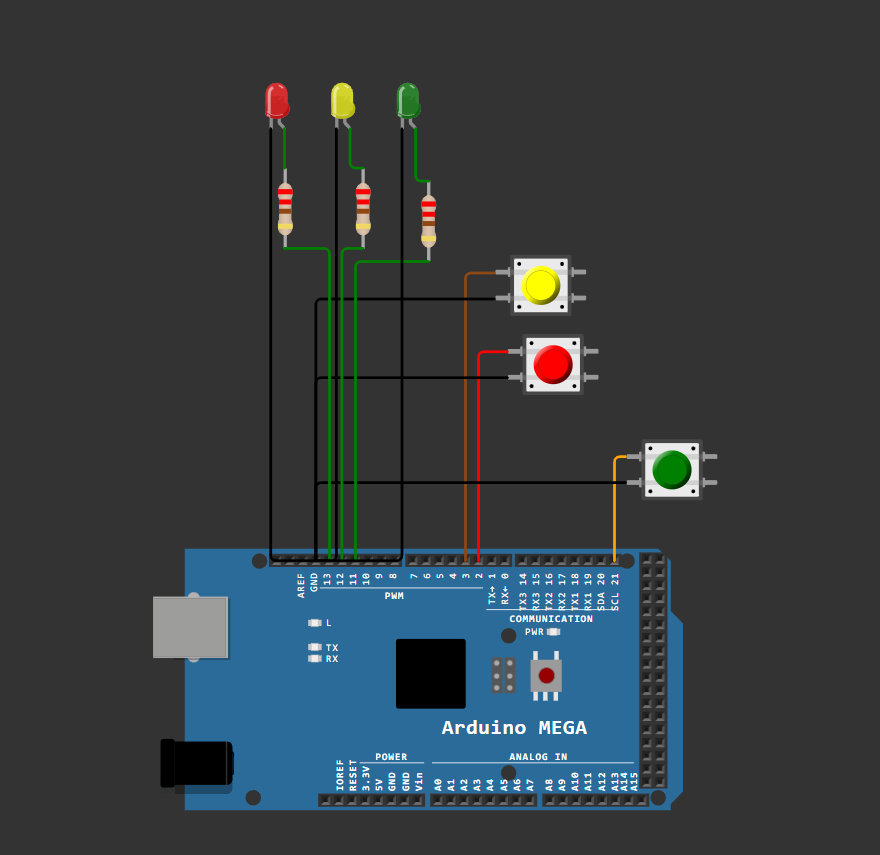
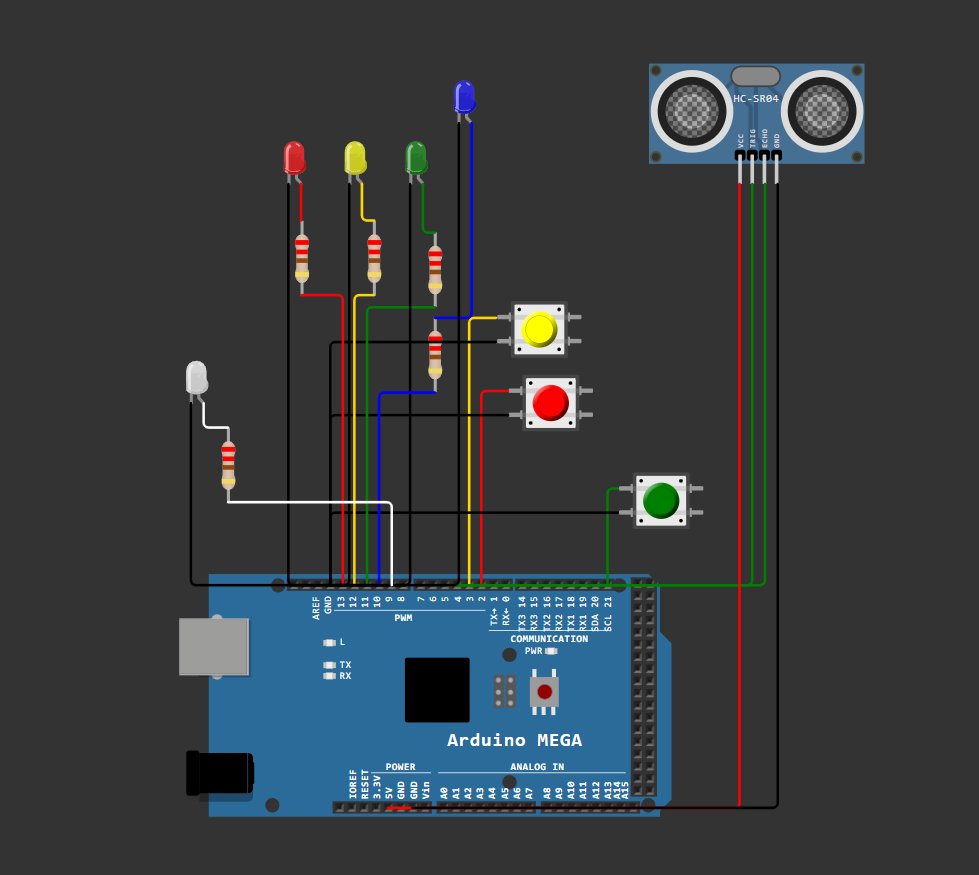
Updated Zadatak_1_Hojski

Changed region(s): [[0.1534, 0.0608, 0.8898, 0.9731]]

diff --git a/Zad_1_Hojski/Prekidi.c b/Zad_1_Hojski/Prekidi.c
@@ -1,81 +1,186 @@
 #include <avr/interrupt.h>
 
-#define LED_INT0 13 // Crvena (najviši prioritet)
-#define LED_INT1 12 // Žuta
-#define LED_INT2 11 // Zelena
-#define BUTTON0 2   // INT0
-#define BUTTON1 3   // INT1
-#define BUTTON2 21  // INT2
+// LED pinovi
+#define LED_INT0 13   // Crvena (tipka INT0)
+#define LED_INT1 12   // Žuta (tipka INT1)
+#define LED_INT2 11   // Zelena (tipka INT2)
+#define LED_Sensor 10 // Plava (senzor)
+#define LED_Timer 9   // Bijela (timer - najviši prioritet)
 
+// Tipkala
+#define BUTTON0 2  // INT0
+#define BUTTON1 3  // INT1
+#define BUTTON2 21 // INT2
+
+// HC-SR04 senzor
+#define TRIG_PIN 4
+#define ECHO_PIN 5 // INT3
+
+// Timer1 konstante
+#define TIMER1_PRESCALER 1024
+#define TIMER1_COMPARE 15624
+
+// Globalne varijable
 volatile bool int0Flag = false;
 volatile bool int1Flag = false;
 volatile bool int2Flag = false;
-unsigned long lastDebounceTime = 0;
-bool processingInterrupt = false;
+volatile bool distanceAlert = false;
+volatile bool timerFlag = false; // Zastavica za timer interrupt
+volatile unsigned long lastDebounceTime = 0;
+const int ALARM_DISTANCE = 100; // Prag udaljenosti u cm
 
 void setup()
 {
+  // Inicijalizacija LEDica
   pinMode(LED_INT0, OUTPUT);
   pinMode(LED_INT1, OUTPUT);
   pinMode(LED_INT2, OUTPUT);
+  pinMode(LED_Sensor, OUTPUT);
+  pinMode(LED_Timer, OUTPUT);
+
+  // Inicijalizacija tipkala
   pinMode(BUTTON0, INPUT_PULLUP);
   pinMode(BUTTON1, INPUT_PULLUP);
   pinMode(BUTTON2, INPUT_PULLUP);
 
+  // Inicijalizacija HC-SR04
+  pinMode(TRIG_PIN, OUTPUT);
+  pinMode(ECHO_PIN, INPUT);
+
+  // Postavljanje prekida za tipkala
   attachInterrupt(digitalPinToInterrupt(BUTTON0), ISR_INT0, FALLING);
   attachInterrupt(digitalPinToInterrupt(BUTTON1), ISR_INT1, FALLING);
   attachInterrupt(digitalPinToInterrupt(BUTTON2), ISR_INT2, FALLING);
 
+  // Konfiguracija Timer1 za prekid svake sekunde
+  TCCR1A = 0;                                        // Normal mode
+  TCCR1B = (1 << WGM12) | (1 << CS12) | (1 << CS10); // CTC mode, prescaler 1024
+  OCR1A = TIMER1_COMPARE;
+  TIMSK1 = (1 << OCIE1A); // Omogući Timer1 compare interrupt
+
   Serial.begin(9600);
-  sei();
+  sei(); // Omogući globalne prekide
 }
 
 void loop()
 {
-  if (!processingInterrupt)
+  // Mjerenje udaljenosti
+  float distance = measureDistance();
+
+  // Provjera alarmnog praga
+  if (distance > 0 && distance < ALARM_DISTANCE)
   {
-    if (int0Flag)
+    if (!distanceAlert)
     {
-      handleInterrupt(0);
+      distanceAlert = true;
     }
-    else if (int1Flag)
-    {
-      handleInterrupt(1);
-    }
-    else if (int2Flag)
-    {
-      handleInterrupt(2);
-    }
+  }
+  else
+  {
+    distanceAlert = false;
+  }
+
+  // Obrada prekida po prioritetima
+  if (timerFlag)
+  {
+    handleTimerInterrupt();
+  }
+  else if (int0Flag)
+  {
+    handleInterrupt(0);
+  }
+  else if (int1Flag)
+  {
+    handleInterrupt(1);
+  }
+  else if (int2Flag)
+  {
+    handleInterrupt(2);
+  }
+  else if (distanceAlert)
+  {
+    triggerDistanceAlert();
   }
 }
 
-// ISR funkcije
+// Timer1 compare interrupt rutina
+ISR(TIMER1_COMPA_vect)
+{
+  timerFlag = true;
+}
+
+void handleTimerInterrupt()
+{
+  // Ugasi sve LEDice
+  digitalWrite(LED_INT0, LOW);
+  digitalWrite(LED_INT1, LOW);
+  digitalWrite(LED_INT2, LOW);
+  digitalWrite(LED_Sensor, LOW);
+
+  // Upali LED_Timer i ispiši poruku
+  digitalWrite(LED_Timer, HIGH);
+  Serial.println("TIMER INTERRUPT (HIGHEST PRIORITY)");
+  delay(1000);
+  digitalWrite(LED_Timer, LOW);
+
+  timerFlag = false;
+}
+
+float measureDistance()
+{
+  // Generiraj trigger impuls
+  digitalWrite(TRIG_PIN, LOW);
+  delayMicroseconds(2);
+  digitalWrite(TRIG_PIN, HIGH);
+  delayMicroseconds(10);
+  digitalWrite(TRIG_PIN, LOW);
+
+  // Mjeri Echo puls
+  long duration = pulseIn(ECHO_PIN, HIGH, 30000); // Timeout 30ms
+
+  // Izračunaj udaljenost
+  if (duration > 0)
+  {
+    return duration / 58.0;
+  }
+  return -1; // Nevažeće mjerenje
+}
+
+void triggerDistanceAlert()
+{
+  // Bljeskaj plavom ledicom
+  digitalWrite(LED_Sensor, HIGH);
+  delay(200);
+  digitalWrite(LED_Sensor, LOW);
+  delay(200);
+  Serial.println("ALARM: Predmet preblizu (<100cm, LOWEST PRIORITY)!");
+}
+
+// Prekidne rutine za tipkala
 void ISR_INT0()
 {
-  if (millis() - lastDebounceTime > 20)
+  if (millis() - lastDebounceTime > 10)
     int0Flag = true;
   lastDebounceTime = millis();
 }
 
 void ISR_INT1()
 {
-  if (millis() - lastDebounceTime > 20)
+  if (millis() - lastDebounceTime > 10)
     int1Flag = true;
   lastDebounceTime = millis();
 }
 
 void ISR_INT2()
 {
-  if (millis() - lastDebounceTime > 20)
+  if (millis() - lastDebounceTime > 10)
     int2Flag = true;
   lastDebounceTime = millis();
 }
 
 void handleInterrupt(int interruptNum)
 {
-  processingInterrupt = true;
-
-  // Ugasi sve LED-ice
+  // Ugasi sve LEDice
   digitalWrite(LED_INT0, LOW);
   digitalWrite(LED_INT1, LOW);
   digitalWrite(LED_INT2, LOW);
@@ -85,21 +190,24 @@ void handleInterrupt(int interruptNum)
   {
   case 0:
     digitalWrite(LED_INT0, HIGH);
-    Serial.println("INT0 (HIGHEST priority)");
+    Serial.println("INT0 (HIGH priority)");
     int0Flag = false;
+    delay(500);
+    digitalWrite(LED_INT0, LOW);
     break;
   case 1:
     digitalWrite(LED_INT1, HIGH);
     Serial.println("INT1 (Medium priority)");
     int1Flag = false;
+    delay(500);
+    digitalWrite(LED_INT1, LOW);
     break;
   case 2:
     digitalWrite(LED_INT2, HIGH);
-    Serial.println("INT2 (Low priority)");
+    Serial.println("INT2 (LOW priority)");
     int2Flag = false;
+    delay(500);
+    digitalWrite(LED_INT2, LOW);
     break;
   }
-
-  delay(100); // Pauza da se LEDica vidljivo upali
-  processingInterrupt = false;
 }

diff --git a/Zad_1_Hojski/readme.md b/Zad_1_Hojski/readme.md
@@ -7,26 +7,27 @@
 
 ## 📖 Sadržaj
 
-1. [Opis projekta](#opis-projekta)
+1. [Opis zadatka](#opis-projekta)
 2. [Hardverske komponente](#hardverske-komponente)
 3. [Slika spojeva](#slika-spojeva)
-4. [Testiranje](#testiranje)
-5. [Rezultat](#rezultat)
-6. [Moguća poboljšanja](#moguca-poboljsanja)
+4. [Opis rješenja](#opis-rjesenja)
+5. [Zaključak](#zakljucak)
 
-## <a name="opis-projekta"></a>1. Opis projekta
+## <a name="opis-projekta"></a>1. Opis zadatka
 
 Sustav demonstrira obradu višestrukih prekida s različitim prioritetima koristeći:
 
 - 3 tipkala za generiranje prekida (INT0, INT1, INT2)
 - 3 LED-ice (crvena, žuta, zelena) za vizualizaciju prioriteta
+- HC-SR04 kao senzor za udaljenost
+- Timer koji sam stvara prekide
 - Arduino Mega 2560 mikrokontroler
 
 **Ključna svojstva**:
 
-- Softversko upravljanje prioritetima
-- Debounce za pouzdano detektiranje tipkala
-- Serijski izlaz za debug informacije
+- Svaki prekid se zasebno obrađuje
+- Ako se javi prekid višeg stupnja, drugi prekidi se stavljaju na čekanje
+- Nakon što se izvrši prekid više razine počnu se redom izvršavati ostali prekidi (od najviše razine prema najnižoj)
 
 ## <a name="hardverske-komponente"></a>2. Hardverske komponente
 
@@ -37,59 +38,65 @@ Sustav demonstrira obradu višestrukih prekida s različitim prioritetima korist
 | Crvena LED        | 1        | 13                  |
 | Žuta LED          | 1        | 12                  |
 | Zelena LED        | 1        | 11                  |
+| Plava LED         | 1        | 10                  |
+| Bijela LED        | 1        | 9                   |
+| HC-SR04           | 1        | TRIG: 4, ECHO: 5    |
 | Otpornik 220Ω     | 3        | -                   |
 
 ## <a name="slika-spojeva"></a> 3. Slika spojeva
 
 ![Wiring Diagram](Prekidi.png)
 
-## 4. <a name="testiranje"></a>Testiranje
+## 4. <a name="opis-rjesenja"></a>Opis rješenja
 
-## 📌 Test Slučaj 1: Prioritetna obrada prekida
+Bijela LED lampica signalizira prekid generiran pomoću timera svakih 2 sekunde. Ovaj prekid ima najviši prioritet i uvijek se izvršava prije svih ostalih.
+Crvena, žuta i zelena LED lampica aktiviraju se kao odgovor na prekide generirane pritiskom na odgovarajuće tipkalo. Prekidi imaju definirani prioritet gdje crvena lampica ima najviši, zatim žuta, a zatim zelena.
+Senzor udaljenosti HC-SR04 se koristi za detektiranje predmeta. Kada senzor registrira objekt bliže od 100 cm, generira se prekid najnižeg prioriteta koji pali plavu lampicu.
 
-**Cilj**:
-Demonstrirati kako sustav prvo obrađuje prekid s najvišim prioritetom kada se aktiviraju višestruki prekidi istovremeno.
+Svaki prekid bi trebao upaliti odgovarajuću LED lampicu kako bi korisnik mogao vidjeti da se prekid ispravno obrađuje.
 
-**Koraci testiranja**:
+- Timer prekid (bijela lampica) treba se aktivirati automatski svakih 2 sekunde.
 
-1. Pritisnite sva tri tipkala (INT0, INT1, INT2) istovremeno
-2. Promatrajte redoslijed paljenja LED dioda
+- Pritiskom na tipkala INT0, INT1 i INT2 trebale bi se redom paliti crvena, žuta i zelena lampica.
 
-**Očekivano ponašanje**:
+- Kada je objekt bliže od 100 cm senzoru, plava lampica se pali kako bi signalizirala da je detekcija aktivirana.
 
-1. Crvena LED (INT0) upali se prva (najviši prioritet)
-2. Žuta LED (INT1) upali se nakon 1 sekunde
-3. Zelena LED (INT2) upali se nakon dodatne 1 sekunde
+### 4.1. Prekidi izazvani kada se pritisnu sva tipkala istovremeno
 
-**Tehnički detalji**:
+Ako korisnik istovremeno pritisne sva tri tipkala, prekidi se trebaju obrađivati po prioritetu:
 
-- INT0 (pin 2) ima najviši prioritet u kodu
-- Varijabla `processingInterrupt` osigurava redoslijednu obradu
-- Pauza od 1 sekunde omogućuje vizualnu potvrdu
+- Prvo se aktivira prekid s najvišim prioritetom - crvena lampica.
 
-## 📌 Test Slučaj 2: Neovisna obrada pojedinačnih prekida
+- Nakon što se prekid završi, aktivira se prekid srednjeg prioriteta - žuta lampica.
 
-**Cilj**:
-Pokazati kako sustav ispravno reagira na pojedinačne prekide bez utjecaja drugih ulaza.
+- Na kraju se izvršava prekid s najnižim prioritetom - zelena lampica.
 
-**Koraci testiranja**:
+Ova testna situacija potvrđuje ispravnost očuvanja i redoslijeda izvršavanja prekida prema prioritetima.
 
-1. Pritisnite samo tipkalo 1 (INT0)
-2. Ponovite za tipkalo 2 (INT1) i tipkalo 3 (INT2) posebno
+### 4.2. Korištenje svih prekida odjednom
 
-**Očekivano ponašanje**:
+U slučaju da se svi prekidi generiraju istovremeno, sustav ih obrađuje u hijerarhijskom redoslijedu:
 
-- Svaki pojedinačni pritisak:
-  - Upali odgovarajuću LED diodu (crvena/žuta/zelena)
-  - Dioda ostaje upaljena točno 1 sekundu
-  - U Serial Monitoru ispisuje odgovarajuću poruku (npr. "INT0 aktiviran")
+- Prvo se izvršava prekid generiran timerom jer ima najviši prioritet.
 
-**Tehnički detalji**:
+- Nakon toga slijede prekidi tipkala, redom od najvažnijeg do najmanje važnog (crvena → žuta → zelena lampica).
 
-- Svaki prekid ima vlastitu ISR funkciju
-- Debounce osigurava jedan odaziv po pritisku
-- Neovisna obrada bez blokiranja glavnog programa
+- Prekid senzora udaljenosti se obrađuje posljednji, budući da ima najniži prioritet.
 
-## 5. <a name="rezultat"></a>Rezultat
+- Ako se tijekom obrade prekida aktivira prekid višeg prioriteta, trenutno aktivni prekid se prekida i prednost se daje novom prekidu.
 
-## 6. <a name="moguca-poboljsanja"></a>Moguća poboljšanja
+- Za najbolje testiranje ovog slučaja, preporučuje se:
+
+- Pritisnuti sva tri tipkala dok je objekt ispred senzora unutar 100 cm dometa.
+
+- Promatrati redoslijed paljenja LED lampica kako bi se vidjelo da se prekidi izvršavaju prema definiranom prioritetu.
+
+- Nakon gašenja crvene lampice, ponovno pritisnuti tipkalo INT0 kako bi se provjerilo da ima prednost pred preostalim aktivnim prekidima.
+
+## 5. <a name="zakljucak"></a>Zakljucak
+
+Prekidi (interrupti) su ključni mehanizam u embedded sustavima jer omogućuju:
+
+1. **Brzi odgovor** - Mikrokontroler može trenutno reagirati na važne događaje bez čekanja u glavnoj petlji
+2. **Energetsku učinkovitost** - Sustav može spavati dok se ne dogodi prekid
+3. **Prioritetizaciju** - Kritični događaji se mogu obraditi prije manje važnih

diff --git a/README.md b/README.md
@@ -32,8 +32,6 @@ Projekt kombinira **pametno zvono** i **pametnu bravu** kako bi pružio moderno 
 
 ### Hardver
 
-- **Mikrokontroler:** ESP32 (Wi-Fi/Bluetooth)
-
 ### Softver
 
 - **Firmware:** Arduino IDE (C++)
